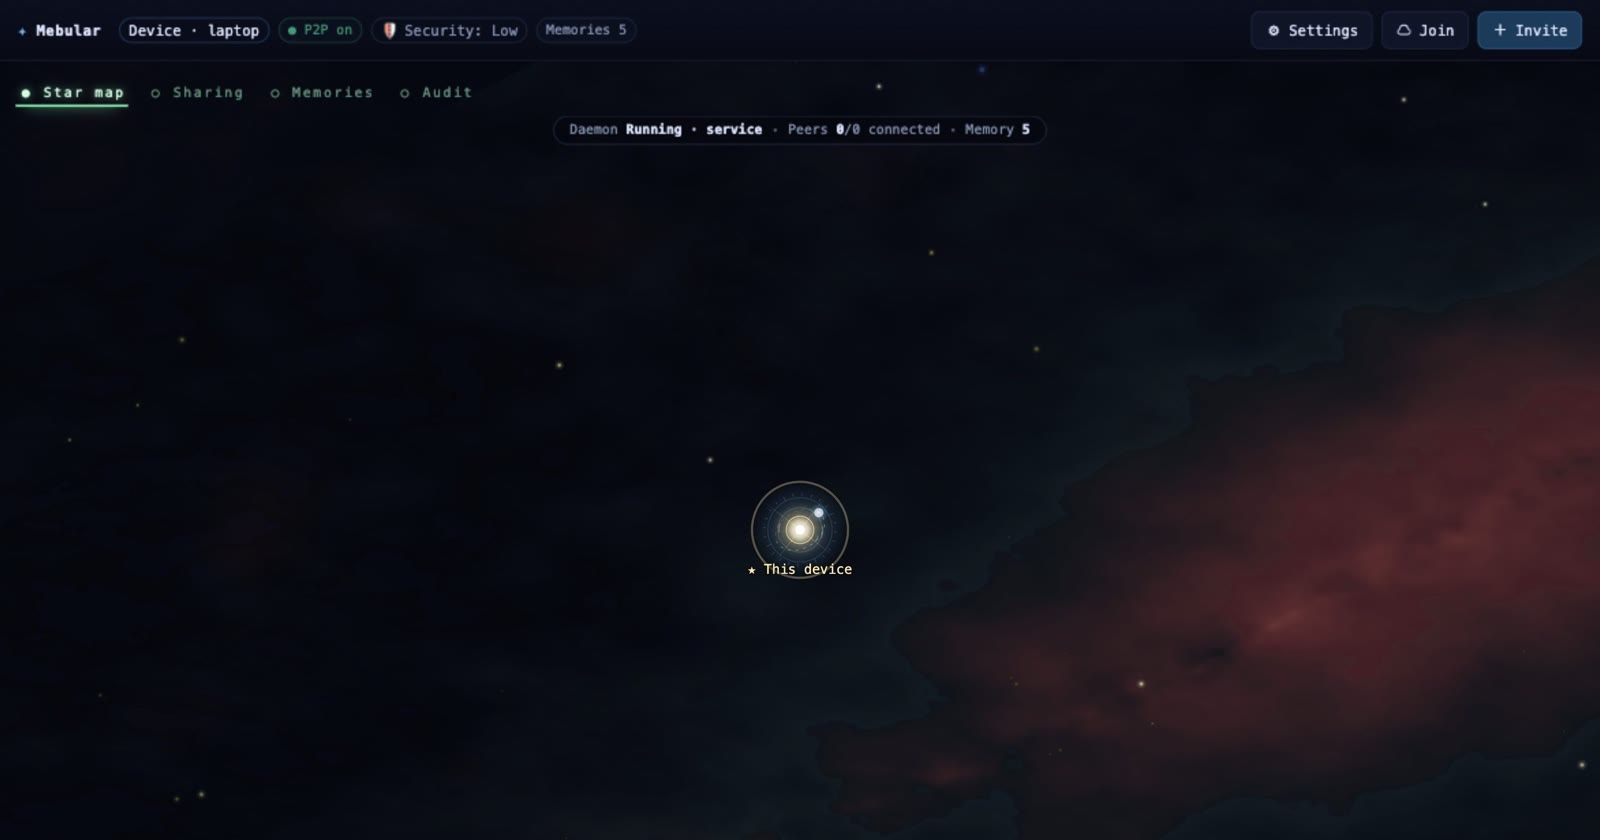
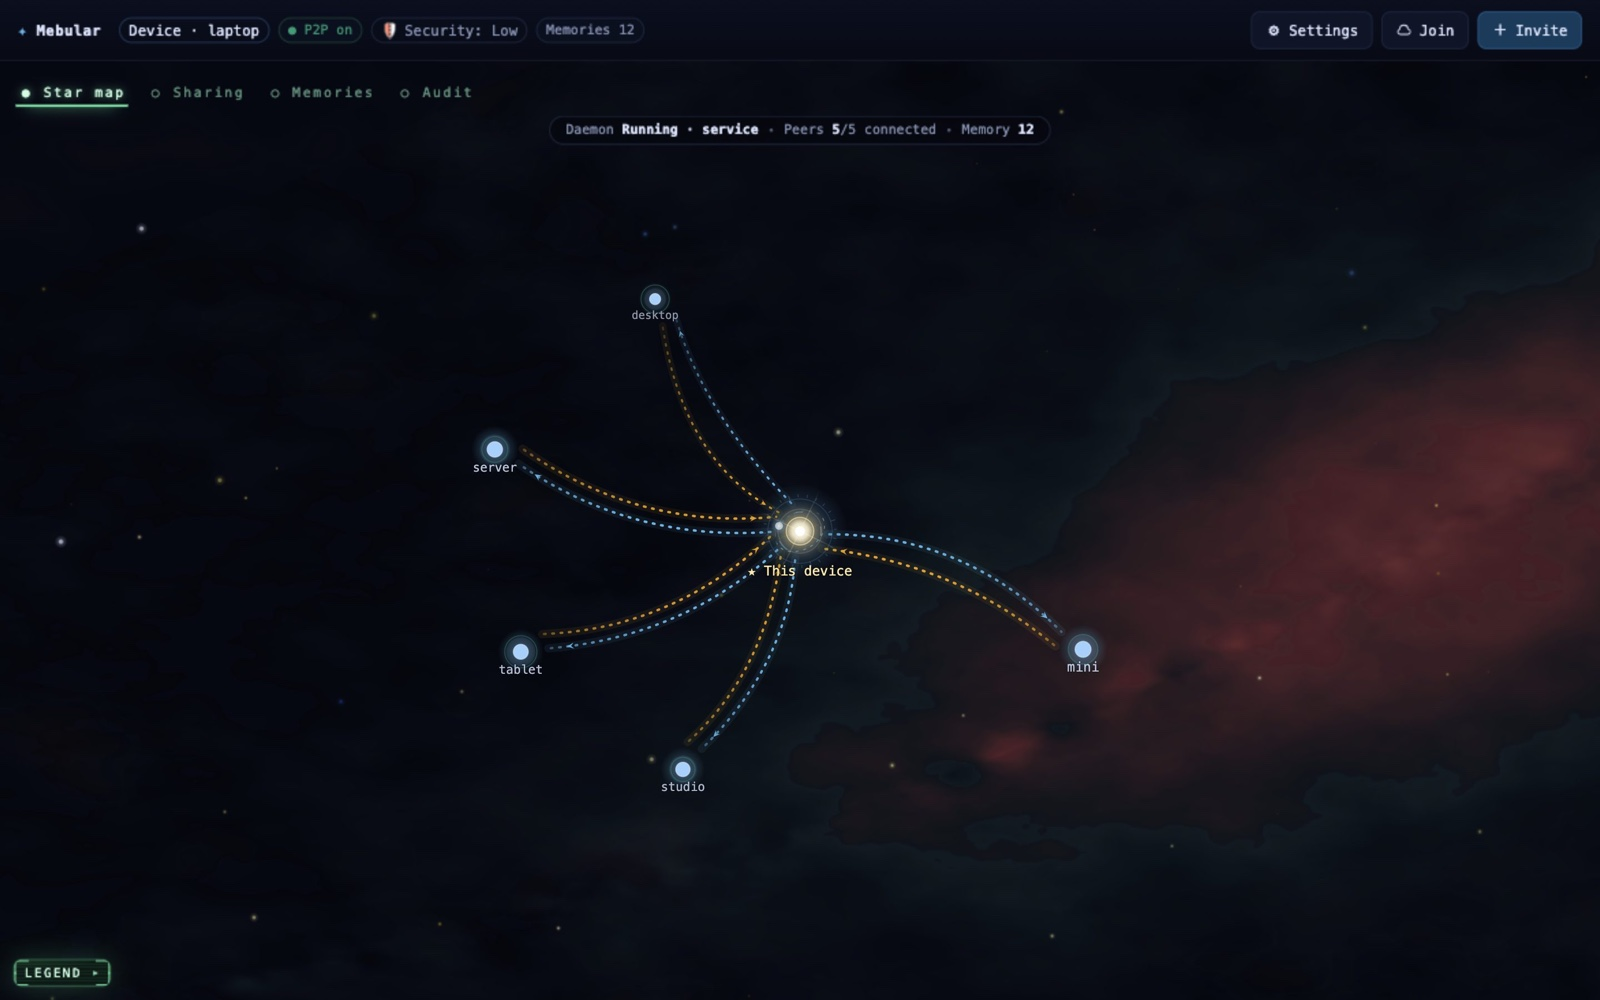
docs(readme): add onboarding and fleet screenshots
Pair the create-Cloud dialog with a six-node star map in both languages. The right image is the local ego view: five devices connected to this machine, with blue/gold lines described as local-to-device authorization/connection, not a full mesh. No starfield or console code is changed.

diff --git a/.opencode/skills/readme-authoring/SKILL.md b/.opencode/skills/readme-authoring/SKILL.md
@@ -118,6 +118,8 @@ If the draft is over budget, remove a section before shortening every sentence.
 - Do not make the GitHub Releases download the only entry point; a desktop build may not exist yet.
 - Use current, localized console screenshots for the hero. Capture a clean state: `Daemon Running`, P2P on, no warning banner, friendly device name, no temp paths or tokens.
 - Never reuse `console-starmap-about.jpg` or `console-settings-common.jpg`; they show the old console.
+- The star map is an ego network: the local node ↔ peers. Caption it as a local view, and explain blue/gold lines as two-way local ↔ device authorization/connection, never as a full mesh.
+- Do not modify `starfield.js` / `console.js` or draw fake peer-to-peer edges for a README screenshot. A network view is a product change with backend semantics and tests.
 - Keep `assets/banner.svg` unchanged.
 - Do not put protocol details (DAG, fleet, CMF, sealing, certificate chains) on the first screen.
 

diff --git a/README.md b/README.md
@@ -14,9 +14,11 @@ Memory and tasks stay on your devices.<br>Devices sync directly. One shared grap
 
 ---
 
-![The Mebular console on a laptop: star map, daemon status and memory count](assets/console-starmap-en.jpg)
-
-<p align="center"><sub>The console on a real machine: star map, device status and memory count.</sub></p>
+<p align="center">
+  <img src="assets/console-onboarding-en.jpg" width="49%" alt="Create a Cloud in the Mebular console">
+  <img src="assets/console-starmap-en.jpg" width="49%" alt="Local star map view: five devices connected to this machine">
+</p>
+<p align="center"><sub>Create a Cloud on the first device · local view: five devices connected to this machine.<br>Blue and gold lines show each device's two-way authorization/connection to this machine, not peer-to-peer links.</sub></p>
 
 ## What it is
 

diff --git a/README_CN.md b/README_CN.md
@@ -14,9 +14,11 @@
 
 ---
 
-![Mebular 实机控制台：星图、守护状态和记忆数量](assets/console-starmap-cn.jpg)
-
-<p align="center"><sub>实机控制台：星图、守护状态和记忆数量。</sub></p>
+<p align="center">
+  <img src="assets/console-onboarding-cn.jpg" width="49%" alt="在 Mebular 控制台新建忆云">
+  <img src="assets/console-starmap-cn.jpg" width="49%" alt="本机星图视角：5 台设备已连接到本机">
+</p>
+<p align="center"><sub>第一台设备新建忆云 · 本机视角：5 台设备已连接到本机。<br>蓝线与金线表示本机 ↔ 各设备的双向授权/连接关系，不是设备之间的互连。</sub></p>
 
 ## 是什么
 
